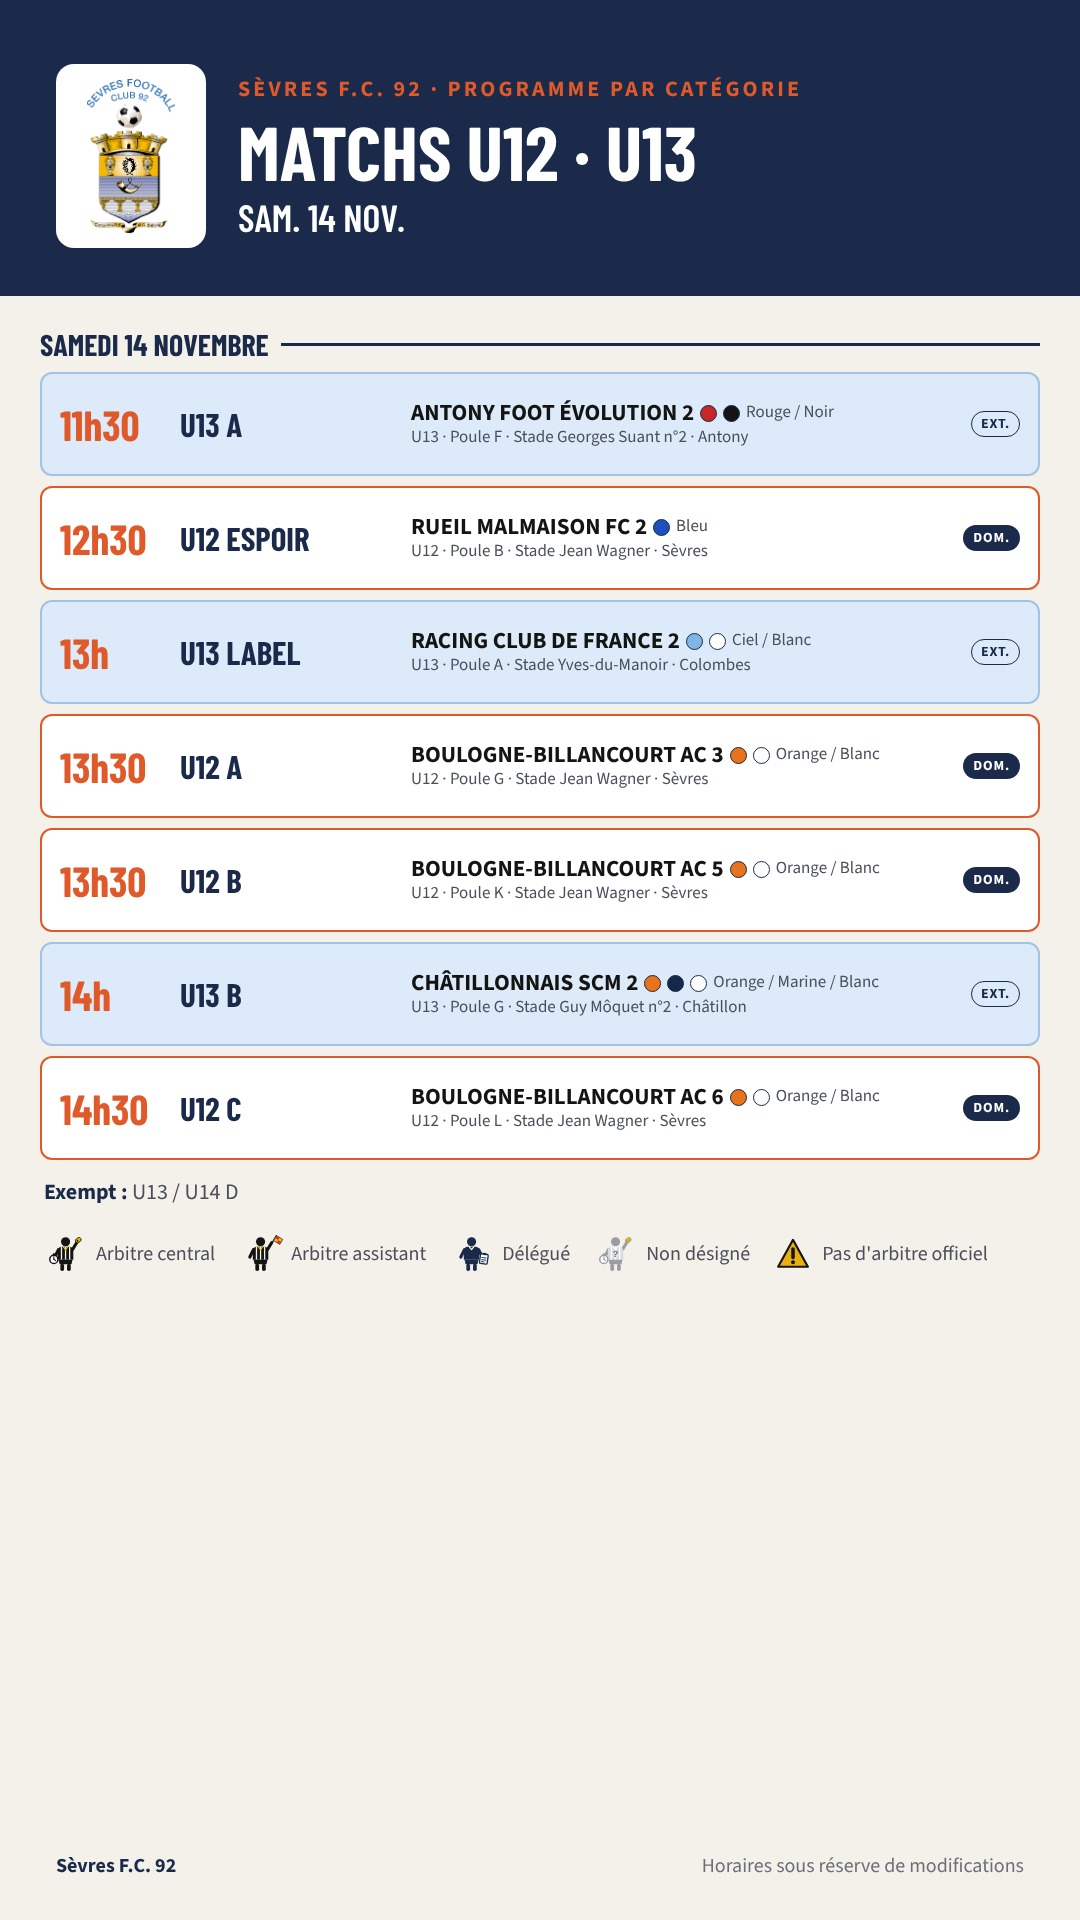
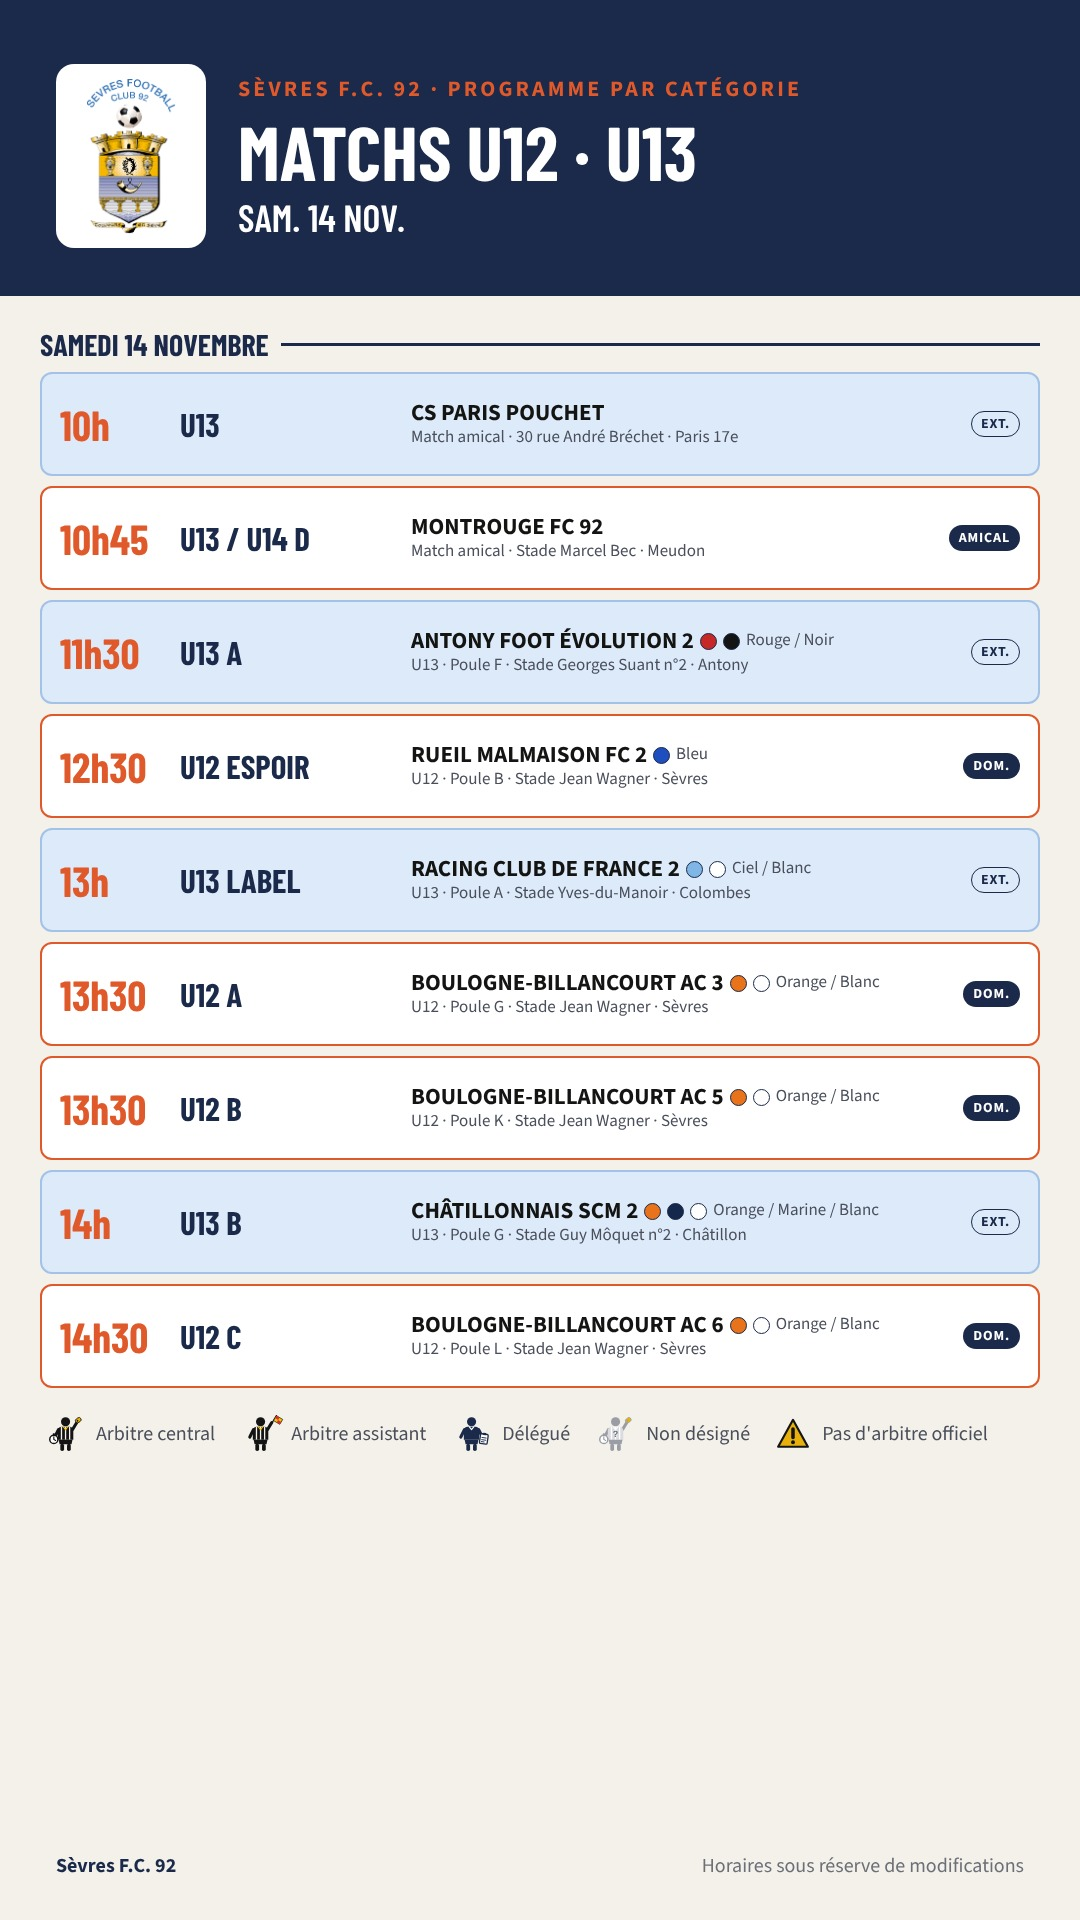
Affiches du 14-16 novembre : relevé Footclubs du 12/11, amicaux U13 et Séniors A
Claude-Session: https://claude.ai/code/session_01MqmjTwM8J4v4b6iCDjTbE8

diff --git a/index.html b/index.html
@@ -83,7 +83,7 @@ footer .wrap{padding-block:16px 28px}
 </div>
 
 <script>
-const WEEKS=[{"id":"2026-10-17","lab":"17 – 18 oct.","fin":"2026-10-18","tous":[["Samedi 17","img/2026-10-17-tous-samedi.jpg"],["Dimanche 18 et lundi 19","img/2026-10-17-tous-dimanche-lundi.jpg"]],"stades":[["fontaines","Samedi 17","img/2026-10-17-fontaines-samedi.jpg"],["fontaines","Dimanche 18","img/2026-10-17-fontaines-dimanche.jpg"]],"cat":[["U12 et U13","img/2026-10-17-u12-u13.jpg"],["Féminines","img/2026-10-17-feminines.jpg"],["U14, U15 et U16","img/2026-10-17-u14-u15-u16.jpg"],["U18","img/2026-10-17-u18.jpg"],["Séniors et U20","img/2026-10-17-seniors-u20.jpg"],["Vétérans","img/2026-10-17-veterans.jpg"],["Foot loisirs","img/2026-10-17-foot-loisirs.jpg"]],"amical":[]},{"id":"2026-10-31","lab":"31 oct. – 2 nov.","fin":"2026-11-02","tous":[["Samedi 31","img/2026-10-31-tous-samedi.jpg"],["Dimanche 1er et lundi 2","img/2026-10-31-tous-dimanche-lundi.jpg"]],"stades":[["fontaines","Samedi 31","img/2026-10-31-fontaines-samedi.jpg"],["fontaines","Dimanche 1er et lundi 2","img/2026-10-31-fontaines-dimanche-lundi.jpg"],["marcel-bec","Lundi 2","img/2026-10-31-marcel-bec-lundi.jpg"]],"cat":[["Féminines","img/2026-10-31-feminines.jpg"],["U18","img/2026-10-31-u18.jpg"],["Séniors et U20","img/2026-10-31-seniors-u20.jpg"],["U15 et U16","img/2026-10-31-u15-u16.jpg"],["Vétérans","img/2026-10-31-veterans.jpg"],["Foot loisirs","img/2026-10-31-foot-loisirs.jpg"]],"amical":[["Match amical à trouver","img/2026-10-31-match-amical-a-trouver.jpg"]]},{"id":"2026-11-07","lab":"7 – 9 nov.","fin":"2026-11-09","tous":[["Samedi matin","img/2026-11-07-samedi-matin.jpg"],["Samedi midi","img/2026-11-07-samedi-midi.jpg"],["Samedi après-midi","img/2026-11-07-samedi-apres-midi.jpg"],["Dimanche 8 et lundi 9","img/2026-11-07-dimanche-lundi.jpg"]],"stades":[["fontaines","Samedi 7","img/2026-11-07-fontaines-samedi.jpg"],["wagner","Samedi 7","img/2026-11-07-wagner-samedi.jpg"],["fontaines","Dimanche 8 et lundi 9","img/2026-11-07-fontaines-dimanche-lundi.jpg"],["wagner","Dimanche 8","img/2026-11-07-wagner-dimanche.jpg"]],"cat":[["U10 et U11","img/2026-11-07-u10-u11.jpg"],["U12 et U13","img/2026-11-07-u12-u13.jpg"],["Féminines","img/2026-11-07-feminines.jpg"],["U14, U15 et U16","img/2026-11-07-u14-u15-u16.jpg"],["U18","img/2026-11-07-u18.jpg"],["Séniors et U20","img/2026-11-07-seniors-u20.jpg"],["Vétérans","img/2026-11-07-veterans.jpg"],["Foot loisirs","img/2026-11-07-foot-loisirs.jpg"],["Séances du week-end","img/2026-11-07-entrainements-seances.jpg"]],"amical":[["Match amical à trouver","img/2026-11-07-match-amical-a-trouver.jpg"]]},{"id":"2026-11-14","lab":"14 – 16 nov.","fin":"2026-11-16","tous":[["Samedi matin","img/2026-11-14-samedi-matin.jpg"],["Samedi midi","img/2026-11-14-samedi-midi.jpg"],["Samedi après-midi","img/2026-11-14-samedi-apres-midi.jpg"],["Dimanche 15 et lundi 16","img/2026-11-14-dimanche-lundi.jpg"]],"stades":[["fontaines","Samedi 14","img/2026-11-14-fontaines-samedi.jpg"],["wagner","Samedi 14","img/2026-11-14-wagner-samedi.jpg"],["fontaines","Dimanche 15 et lundi 16","img/2026-11-14-fontaines-dimanche-lundi.jpg"],["wagner","Dimanche 15","img/2026-11-14-wagner-dimanche.jpg"],["marcel-bec","Lundi 16","img/2026-11-14-marcel-bec-lundi.jpg"]],"cat":[["U10 et U11","img/2026-11-14-u10-u11.jpg"],["U12 et U13","img/2026-11-14-u12-u13.jpg"],["Féminines","img/2026-11-14-feminines.jpg"],["U14, U15 et U16","img/2026-11-14-u14-u15-u16.jpg"],["U18","img/2026-11-14-u18.jpg"],["Séniors et U20","img/2026-11-14-seniors-u20.jpg"],["Vétérans","img/2026-11-14-veterans.jpg"],["Foot loisirs","img/2026-11-14-foot-loisirs.jpg"],["Séances du week-end","img/2026-11-14-entrainements-seances.jpg"]],"amical":[["Match amical à trouver","img/2026-11-14-match-amical-a-trouver.jpg"]]},{"id":"2026-11-21","lab":"21 – 23 nov.","fin":"2026-11-23","tous":[["Samedi 21","img/2026-11-21-samedi.jpg"],["Dimanche 22 et lundi 23","img/2026-11-21-dimanche-lundi.jpg"]],"stades":[["fontaines","Samedi 21","img/2026-11-21-fontaines-samedi.jpg"],["wagner","Samedi 21","img/2026-11-21-wagner-samedi.jpg"],["fontaines","Dimanche 22 et lundi 23","img/2026-11-21-fontaines-dimanche-lundi.jpg"],["wagner","Dimanche 22","img/2026-11-21-wagner-dimanche.jpg"],["marcel-bec","Dimanche 22","img/2026-11-21-marcel-bec-dimanche.jpg"]],"cat":[["U10 et U11","img/2026-11-21-u10-u11.jpg"],["U12 et U13","img/2026-11-21-u12-u13.jpg"],["Féminines","img/2026-11-21-feminines.jpg"],["U14, U15 et U16","img/2026-11-21-u14-u15-u16.jpg"],["U18","img/2026-11-21-u18.jpg"],["Séniors et U20","img/2026-11-21-seniors-u20.jpg"],["Vétérans","img/2026-11-21-veterans.jpg"],["Foot loisirs","img/2026-11-21-foot-loisirs.jpg"],["Séances du week-end","img/2026-11-21-entrainements-seances.jpg"]],"amical":[["Match amical à trouver","img/2026-11-21-match-amical-a-trouver.jpg"]]}];
+const WEEKS=[{"id":"2026-10-17","lab":"17 – 18 oct.","fin":"2026-10-18","tous":[["Samedi 17","img/2026-10-17-tous-samedi.jpg"],["Dimanche 18 et lundi 19","img/2026-10-17-tous-dimanche-lundi.jpg"]],"stades":[["fontaines","Samedi 17","img/2026-10-17-fontaines-samedi.jpg"],["fontaines","Dimanche 18","img/2026-10-17-fontaines-dimanche.jpg"]],"cat":[["U12 et U13","img/2026-10-17-u12-u13.jpg"],["Féminines","img/2026-10-17-feminines.jpg"],["U14, U15 et U16","img/2026-10-17-u14-u15-u16.jpg"],["U18","img/2026-10-17-u18.jpg"],["Séniors et U20","img/2026-10-17-seniors-u20.jpg"],["Vétérans","img/2026-10-17-veterans.jpg"],["Foot loisirs","img/2026-10-17-foot-loisirs.jpg"]],"amical":[]},{"id":"2026-10-31","lab":"31 oct. – 2 nov.","fin":"2026-11-02","tous":[["Samedi 31","img/2026-10-31-tous-samedi.jpg"],["Dimanche 1er et lundi 2","img/2026-10-31-tous-dimanche-lundi.jpg"]],"stades":[["fontaines","Samedi 31","img/2026-10-31-fontaines-samedi.jpg"],["fontaines","Dimanche 1er et lundi 2","img/2026-10-31-fontaines-dimanche-lundi.jpg"],["marcel-bec","Lundi 2","img/2026-10-31-marcel-bec-lundi.jpg"]],"cat":[["Féminines","img/2026-10-31-feminines.jpg"],["U18","img/2026-10-31-u18.jpg"],["Séniors et U20","img/2026-10-31-seniors-u20.jpg"],["U15 et U16","img/2026-10-31-u15-u16.jpg"],["Vétérans","img/2026-10-31-veterans.jpg"],["Foot loisirs","img/2026-10-31-foot-loisirs.jpg"]],"amical":[["Match amical à trouver","img/2026-10-31-match-amical-a-trouver.jpg"]]},{"id":"2026-11-07","lab":"7 – 9 nov.","fin":"2026-11-09","tous":[["Samedi matin","img/2026-11-07-samedi-matin.jpg"],["Samedi midi","img/2026-11-07-samedi-midi.jpg"],["Samedi après-midi","img/2026-11-07-samedi-apres-midi.jpg"],["Dimanche 8 et lundi 9","img/2026-11-07-dimanche-lundi.jpg"]],"stades":[["fontaines","Samedi 7","img/2026-11-07-fontaines-samedi.jpg"],["wagner","Samedi 7","img/2026-11-07-wagner-samedi.jpg"],["fontaines","Dimanche 8 et lundi 9","img/2026-11-07-fontaines-dimanche-lundi.jpg"],["wagner","Dimanche 8","img/2026-11-07-wagner-dimanche.jpg"]],"cat":[["U10 et U11","img/2026-11-07-u10-u11.jpg"],["U12 et U13","img/2026-11-07-u12-u13.jpg"],["Féminines","img/2026-11-07-feminines.jpg"],["U14, U15 et U16","img/2026-11-07-u14-u15-u16.jpg"],["U18","img/2026-11-07-u18.jpg"],["Séniors et U20","img/2026-11-07-seniors-u20.jpg"],["Vétérans","img/2026-11-07-veterans.jpg"],["Foot loisirs","img/2026-11-07-foot-loisirs.jpg"],["Séances du week-end","img/2026-11-07-entrainements-seances.jpg"]],"amical":[["Match amical à trouver","img/2026-11-07-match-amical-a-trouver.jpg"]]},{"id":"2026-11-14","lab":"14 – 16 nov.","fin":"2026-11-16","tous":[["Samedi matin","img/2026-11-14-samedi-matin.jpg"],["Samedi midi","img/2026-11-14-samedi-midi.jpg"],["Samedi après-midi","img/2026-11-14-samedi-apres-midi.jpg"],["Dimanche 15 et lundi 16","img/2026-11-14-dimanche-lundi.jpg"]],"stades":[["fontaines","Samedi 14","img/2026-11-14-fontaines-samedi.jpg"],["wagner","Samedi 14","img/2026-11-14-wagner-samedi.jpg"],["fontaines","Dimanche 15 et lundi 16","img/2026-11-14-fontaines-dimanche-lundi.jpg"],["wagner","Dimanche 15","img/2026-11-14-wagner-dimanche.jpg"],["marcel-bec","Samedi 14 lundi 16","img/2026-11-14-marcel-bec-samedi-lundi.jpg"]],"cat":[["U10 et U11","img/2026-11-14-u10-u11.jpg"],["U12 et U13","img/2026-11-14-u12-u13.jpg"],["Féminines","img/2026-11-14-feminines.jpg"],["U14, U15 et U16","img/2026-11-14-u14-u15-u16.jpg"],["U18","img/2026-11-14-u18.jpg"],["Séniors et U20","img/2026-11-14-seniors-u20.jpg"],["Vétérans","img/2026-11-14-veterans.jpg"],["Foot loisirs","img/2026-11-14-foot-loisirs.jpg"],["Séances du week-end","img/2026-11-14-entrainements-seances.jpg"]],"amical":[["Match amical à trouver","img/2026-11-14-match-amical-a-trouver.jpg"]]},{"id":"2026-11-21","lab":"21 – 23 nov.","fin":"2026-11-23","tous":[["Samedi 21","img/2026-11-21-samedi.jpg"],["Dimanche 22 et lundi 23","img/2026-11-21-dimanche-lundi.jpg"]],"stades":[["fontaines","Samedi 21","img/2026-11-21-fontaines-samedi.jpg"],["wagner","Samedi 21","img/2026-11-21-wagner-samedi.jpg"],["fontaines","Dimanche 22 et lundi 23","img/2026-11-21-fontaines-dimanche-lundi.jpg"],["wagner","Dimanche 22","img/2026-11-21-wagner-dimanche.jpg"],["marcel-bec","Dimanche 22","img/2026-11-21-marcel-bec-dimanche.jpg"]],"cat":[["U10 et U11","img/2026-11-21-u10-u11.jpg"],["U12 et U13","img/2026-11-21-u12-u13.jpg"],["Féminines","img/2026-11-21-feminines.jpg"],["U14, U15 et U16","img/2026-11-21-u14-u15-u16.jpg"],["U18","img/2026-11-21-u18.jpg"],["Séniors et U20","img/2026-11-21-seniors-u20.jpg"],["Vétérans","img/2026-11-21-veterans.jpg"],["Foot loisirs","img/2026-11-21-foot-loisirs.jpg"],["Séances du week-end","img/2026-11-21-entrainements-seances.jpg"]],"amical":[["Match amical à trouver","img/2026-11-21-match-amical-a-trouver.jpg"]]}];
 const STADES={fontaines:['Stade des Fontaines','Sèvres'],wagner:['Stade Jean Wagner','Sèvres'],'marcel-bec':['Stade Marcel Bec','Meudon']};
 const VIEWS=[['tous','Tous les matchs'],['stades','Par stade'],['categories','Par catégorie'],['amical','Match amical']];
 const today=new Date().toISOString().slice(0,10);
